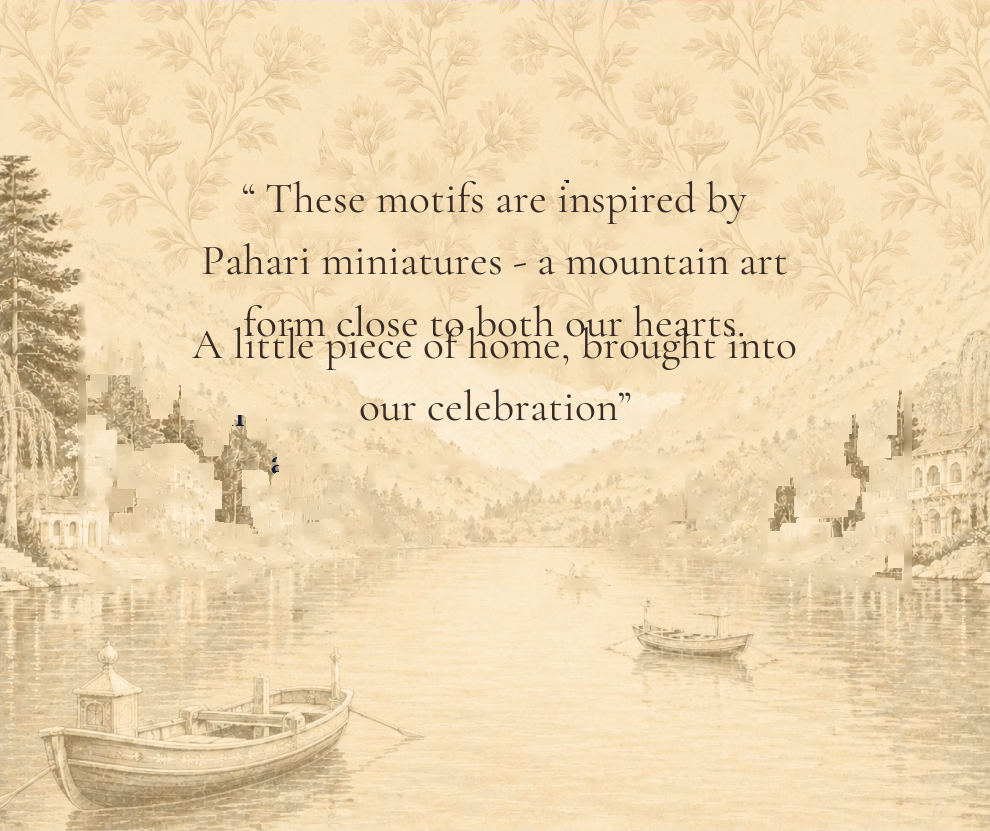
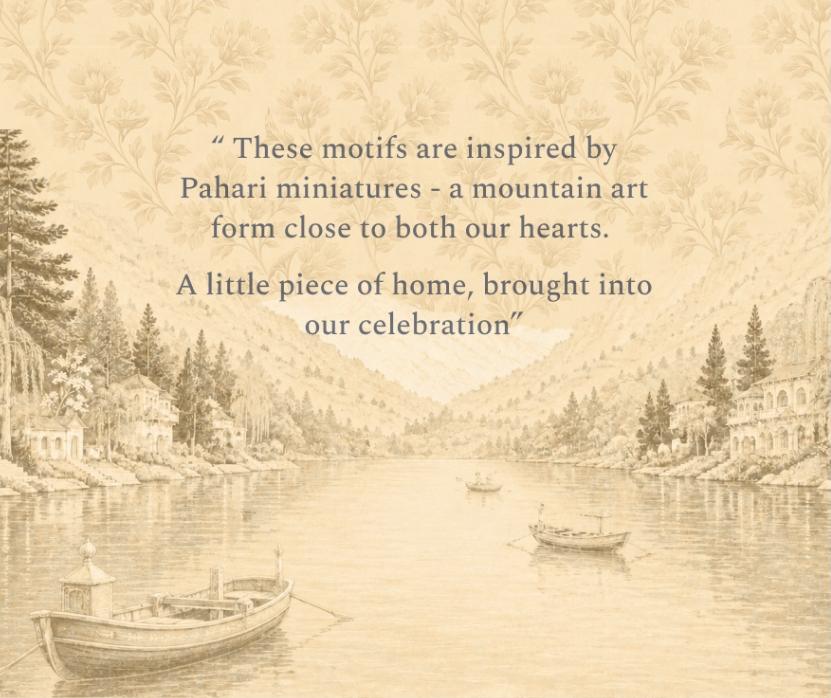
Deploy pixel-perfect Figma footer artwork with flawless line spacing and natural gradients

diff --git a/celebrations.html b/celebrations.html
@@ -384,7 +384,7 @@ body {
   padding: 0 !important;
   line-height: 0 !important;
   border-radius: 0 !important;
-  aspect-ratio: 990 / 831 !important;
+  aspect-ratio: 831 / 698 !important;
 }
 
 .epilogue-footer-art {
@@ -1094,12 +1094,12 @@ body.sheet-modal-open .fixed-bottom-nav {
   <!-- ── 4. Full-Bleed Edge-to-Edge Epilogue Section (Figma Node 482:1720) ── -->
   <section class="celebrations-epilogue-section" aria-label="About the Pahari Motifs">
     <picture class="epilogue-art-wrap">
-      <source srcset="images/celebrations/pahari_motifs_footer.webp?v=90000" type="image/webp">
-      <img src="images/celebrations/pahari_motifs_footer.jpg?v=90000" 
+      <source srcset="images/celebrations/pahari_motifs_footer.webp?v=95000" type="image/webp">
+      <img src="images/celebrations/pahari_motifs_footer.jpg?v=95000" 
            alt="“ These motifs are inspired by Pahari miniatures - a mountain art form close to both our hearts. A little piece of home, brought into our celebration ”" 
            class="epilogue-footer-art" 
-           width="990" 
-           height="831" 
+           width="831" 
+           height="698" 
            loading="eager" 
            fetchpriority="high" 
            decoding="sync">
